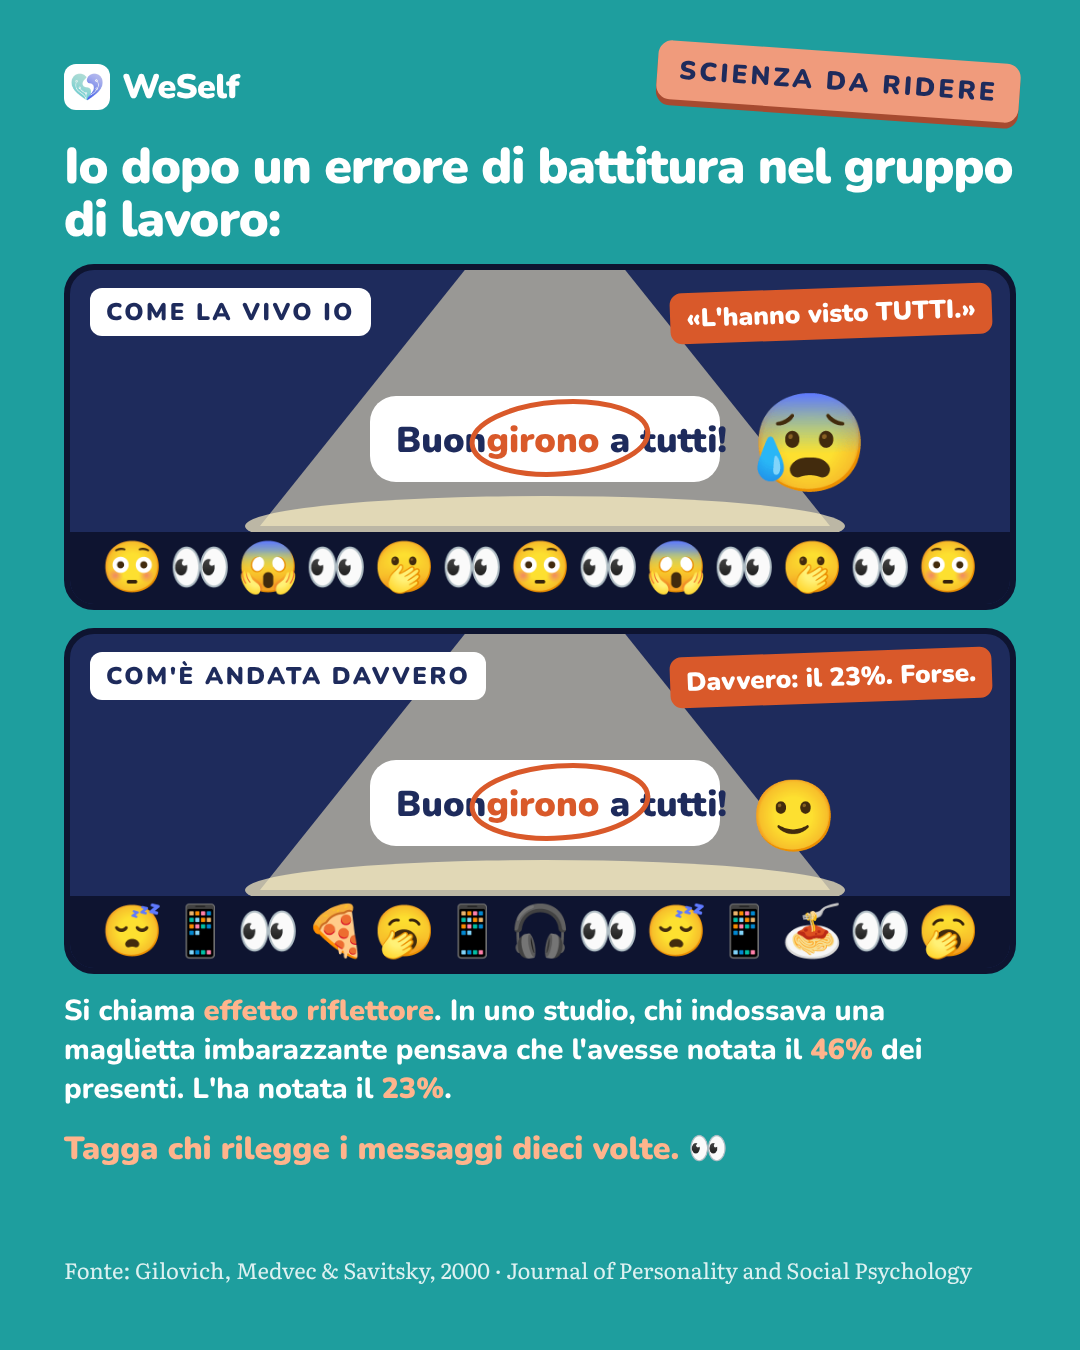
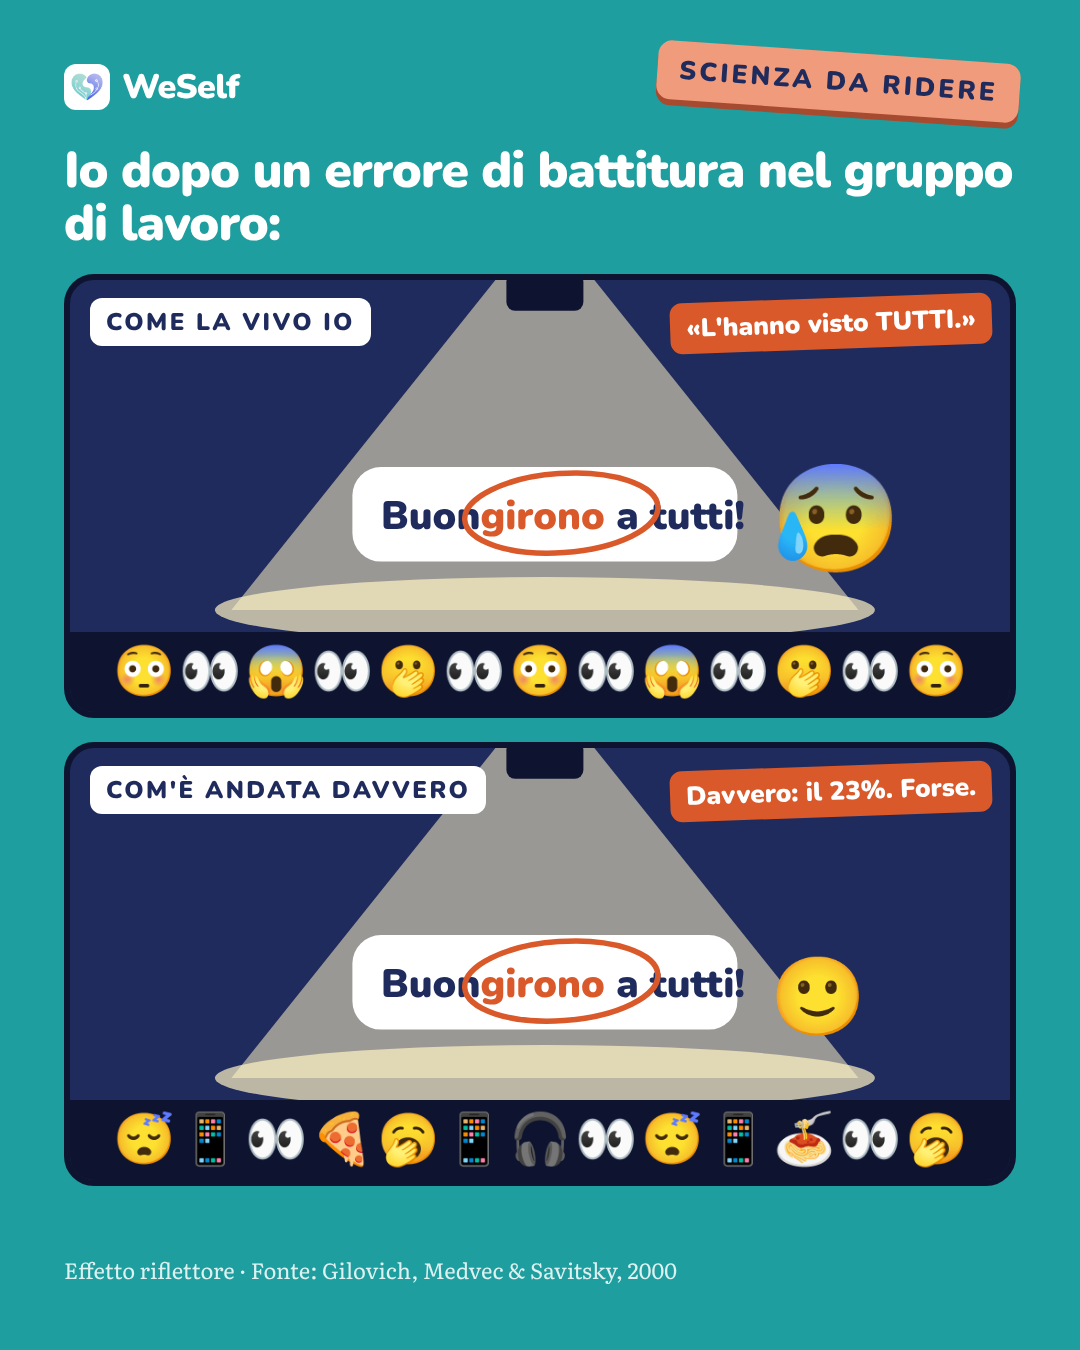
Meme errore-battitura: illustrations take the space, no explanation on the image; rule updated
Claude-Session: https://claude.ai/code/session_01KYQeP73Zvn8PeP6zhkL2Sc

diff --git a/meme/errore-battitura/slides.html b/meme/errore-battitura/slides.html
@@ -81,7 +81,7 @@ svg.shape{position:absolute;z-index:1}
 .l1{font-weight:900;font-size:50px;line-height:1.06;letter-spacing:-.02em}
 .pan{position:relative;background:#1E2B5C;border-radius:30px;overflow:hidden;border:6px solid #0E1430}
 .pan .lbl{position:absolute;left:20px;top:18px;background:#fff;color:#1E2B5C;font-weight:900;font-size:24px;letter-spacing:.1em;padding:8px 16px;border-radius:12px;z-index:2}
-.pan .aud{display:flex;justify-content:center;gap:6px;font-size:50px;line-height:1;background:#0E1430;padding:10px 10px 12px}
+.pan .aud{display:flex;justify-content:center;gap:4px;font-size:50px;line-height:1;background:#0E1430;padding:14px 10px 16px}
 .pan .pct{position:absolute;right:18px;top:18px;background:#D9592A;color:#fff;font-weight:900;font-size:26px;padding:8px 16px;border-radius:12px;transform:rotate(-2deg)}
 .sci{font-weight:700;font-size:29px;line-height:1.34}
 .sci b{color:#FFB48C}
@@ -90,12 +90,10 @@ svg.shape{position:absolute;z-index:1}
 </style>
 <section class="slide" id="s1"><span class="stamp">SCIENZA DA RIDERE</span>
   <div class="top"><div class="brand"><img src="weself-mark.png"><span><span class="we">We</span><span class="self">Self</span></span></div></div>
-  <div class="stack" style="margin-top:30px;gap:18px">
+  <div class="stack" style="margin-top:34px;gap:24px">
     <p class="l1">Io dopo un errore di battitura nel gruppo di lavoro:</p>
-    <div class="pan"><span class="lbl">COME LA VIVO IO</span><svg width="952" height="262" viewBox="0 30 952 290" preserveAspectRatio="xMidYMid slice" style="display:block"><polygon points="430,0 520,0 760,300 190,300" fill="#FFF3C4" fill-opacity="0.55"/><ellipse cx="475" cy="300" rx="300" ry="30" fill="#FFF3C4" fill-opacity="0.7"/><rect x="440" y="-6" width="70" height="34" rx="8" fill="#0E1430"/><g transform="translate(300 170)"><rect x="0" y="0" width="350" height="86" rx="26" fill="#fff"/><text x="26" y="56" font-family="Nunito" font-weight="900" font-size="36" fill="#1E2B5C">Buon<tspan fill="#D9592A">girono</tspan> a tutti!</text><ellipse cx="190" cy="44" rx="88" ry="36" fill="none" stroke="#D9592A" stroke-width="5" transform="rotate(-4 160 44)"/></g><text x="680" y="250" font-family="Noto Color Emoji" font-size="96">😰</text></svg><div class="aud"><span>😳</span><span>👀</span><span>😱</span><span>👀</span><span>🫢</span><span>👀</span><span>😳</span><span>👀</span><span>😱</span><span>👀</span><span>🫢</span><span>👀</span><span>😳</span></div><span class="pct">«L'hanno visto TUTTI.»</span></div>
-    <div class="pan"><span class="lbl">COM'È ANDATA DAVVERO</span><svg width="952" height="262" viewBox="0 30 952 290" preserveAspectRatio="xMidYMid slice" style="display:block"><polygon points="430,0 520,0 760,300 190,300" fill="#FFF3C4" fill-opacity="0.55"/><ellipse cx="475" cy="300" rx="300" ry="30" fill="#FFF3C4" fill-opacity="0.7"/><rect x="440" y="-6" width="70" height="34" rx="8" fill="#0E1430"/><g transform="translate(300 170)"><rect x="0" y="0" width="350" height="86" rx="26" fill="#fff"/><text x="26" y="56" font-family="Nunito" font-weight="900" font-size="36" fill="#1E2B5C">Buon<tspan fill="#D9592A">girono</tspan> a tutti!</text><ellipse cx="190" cy="44" rx="88" ry="36" fill="none" stroke="#D9592A" stroke-width="5" transform="rotate(-4 160 44)"/></g><text x="680" y="250" font-family="Noto Color Emoji" font-size="70">🙂</text></svg><div class="aud"><span>😴</span><span>📱</span><span>👀</span><span>🍕</span><span>🥱</span><span>📱</span><span>🎧</span><span>👀</span><span>😴</span><span>📱</span><span>🍝</span><span>👀</span><span>🥱</span></div><span class="pct">Davvero: il 23%. Forse.</span></div>
-    <p class="sci">Si chiama <b>effetto riflettore</b>. In uno studio, chi indossava una maglietta imbarazzante pensava che l'avesse notata il <b>46%</b> dei presenti. L'ha notata il <b>23%</b>.</p>
-    <p class="ask">Tagga chi rilegge i messaggi dieci volte. <span class="emo">👀</span></p>
+    <div class="pan"><span class="lbl">COME LA VIVO IO</span><svg width="952" height="352" viewBox="0 0 952 320" preserveAspectRatio="xMidYMid slice" style="display:block"><polygon points="430,0 520,0 760,300 190,300" fill="#FFF3C4" fill-opacity="0.55"/><ellipse cx="475" cy="300" rx="300" ry="30" fill="#FFF3C4" fill-opacity="0.7"/><rect x="440" y="-6" width="70" height="34" rx="8" fill="#0E1430"/><g transform="translate(300 170)"><rect x="0" y="0" width="350" height="86" rx="26" fill="#fff"/><text x="26" y="56" font-family="Nunito" font-weight="900" font-size="36" fill="#1E2B5C">Buon<tspan fill="#D9592A">girono</tspan> a tutti!</text><ellipse cx="190" cy="44" rx="88" ry="36" fill="none" stroke="#D9592A" stroke-width="5" transform="rotate(-4 160 44)"/></g><text x="680" y="250" font-family="Noto Color Emoji" font-size="96">😰</text></svg><div class="aud"><span>😳</span><span>👀</span><span>😱</span><span>👀</span><span>🫢</span><span>👀</span><span>😳</span><span>👀</span><span>😱</span><span>👀</span><span>🫢</span><span>👀</span><span>😳</span></div><span class="pct">«L'hanno visto TUTTI.»</span></div>
+    <div class="pan"><span class="lbl">COM'È ANDATA DAVVERO</span><svg width="952" height="352" viewBox="0 0 952 320" preserveAspectRatio="xMidYMid slice" style="display:block"><polygon points="430,0 520,0 760,300 190,300" fill="#FFF3C4" fill-opacity="0.55"/><ellipse cx="475" cy="300" rx="300" ry="30" fill="#FFF3C4" fill-opacity="0.7"/><rect x="440" y="-6" width="70" height="34" rx="8" fill="#0E1430"/><g transform="translate(300 170)"><rect x="0" y="0" width="350" height="86" rx="26" fill="#fff"/><text x="26" y="56" font-family="Nunito" font-weight="900" font-size="36" fill="#1E2B5C">Buon<tspan fill="#D9592A">girono</tspan> a tutti!</text><ellipse cx="190" cy="44" rx="88" ry="36" fill="none" stroke="#D9592A" stroke-width="5" transform="rotate(-4 160 44)"/></g><text x="680" y="250" font-family="Noto Color Emoji" font-size="70">🙂</text></svg><div class="aud"><span>😴</span><span>📱</span><span>👀</span><span>🍕</span><span>🥱</span><span>📱</span><span>🎧</span><span>👀</span><span>😴</span><span>📱</span><span>🍝</span><span>👀</span><span>🥱</span></div><span class="pct">Davvero: il 23%. Forse.</span></div>
   </div>
-  <p class="srcl" style="margin-top:auto">Fonte: Gilovich, Medvec &amp; Savitsky, 2000 · Journal of Personality and Social Psychology</p>
+  <p class="srcl" style="margin-top:auto">Effetto riflettore · Fonte: Gilovich, Medvec &amp; Savitsky, 2000</p>
 </section></body></html>

diff --git a/meme/errore-battitura/body.html b/meme/errore-battitura/body.html
@@ -6,7 +6,7 @@
 .l1{font-weight:900;font-size:50px;line-height:1.06;letter-spacing:-.02em}
 .pan{position:relative;background:#1E2B5C;border-radius:30px;overflow:hidden;border:6px solid #0E1430}
 .pan .lbl{position:absolute;left:20px;top:18px;background:#fff;color:#1E2B5C;font-weight:900;font-size:24px;letter-spacing:.1em;padding:8px 16px;border-radius:12px;z-index:2}
-.pan .aud{display:flex;justify-content:center;gap:6px;font-size:50px;line-height:1;background:#0E1430;padding:10px 10px 12px}
+.pan .aud{display:flex;justify-content:center;gap:4px;font-size:50px;line-height:1;background:#0E1430;padding:14px 10px 16px}
 .pan .pct{position:absolute;right:18px;top:18px;background:#D9592A;color:#fff;font-weight:900;font-size:26px;padding:8px 16px;border-radius:12px;transform:rotate(-2deg)}
 .sci{font-weight:700;font-size:29px;line-height:1.34}
 .sci b{color:#FFB48C}
@@ -15,12 +15,10 @@
 </style>
 <section class="slide" id="s1"><span class="stamp">SCIENZA DA RIDERE</span>
   <div class="top"><div class="brand"><img src="weself-mark.png"><span><span class="we">We</span><span class="self">Self</span></span></div></div>
-  <div class="stack" style="margin-top:30px;gap:18px">
+  <div class="stack" style="margin-top:34px;gap:24px">
     <p class="l1">Io dopo un errore di battitura nel gruppo di lavoro:</p>
-    <div class="pan"><span class="lbl">COME LA VIVO IO</span><svg width="952" height="262" viewBox="0 30 952 290" preserveAspectRatio="xMidYMid slice" style="display:block"><polygon points="430,0 520,0 760,300 190,300" fill="#FFF3C4" fill-opacity="0.55"/><ellipse cx="475" cy="300" rx="300" ry="30" fill="#FFF3C4" fill-opacity="0.7"/><rect x="440" y="-6" width="70" height="34" rx="8" fill="#0E1430"/><g transform="translate(300 170)"><rect x="0" y="0" width="350" height="86" rx="26" fill="#fff"/><text x="26" y="56" font-family="Nunito" font-weight="900" font-size="36" fill="#1E2B5C">Buon<tspan fill="#D9592A">girono</tspan> a tutti!</text><ellipse cx="190" cy="44" rx="88" ry="36" fill="none" stroke="#D9592A" stroke-width="5" transform="rotate(-4 160 44)"/></g><text x="680" y="250" font-family="Noto Color Emoji" font-size="96">😰</text></svg><div class="aud"><span>😳</span><span>👀</span><span>😱</span><span>👀</span><span>🫢</span><span>👀</span><span>😳</span><span>👀</span><span>😱</span><span>👀</span><span>🫢</span><span>👀</span><span>😳</span></div><span class="pct">«L'hanno visto TUTTI.»</span></div>
-    <div class="pan"><span class="lbl">COM'È ANDATA DAVVERO</span><svg width="952" height="262" viewBox="0 30 952 290" preserveAspectRatio="xMidYMid slice" style="display:block"><polygon points="430,0 520,0 760,300 190,300" fill="#FFF3C4" fill-opacity="0.55"/><ellipse cx="475" cy="300" rx="300" ry="30" fill="#FFF3C4" fill-opacity="0.7"/><rect x="440" y="-6" width="70" height="34" rx="8" fill="#0E1430"/><g transform="translate(300 170)"><rect x="0" y="0" width="350" height="86" rx="26" fill="#fff"/><text x="26" y="56" font-family="Nunito" font-weight="900" font-size="36" fill="#1E2B5C">Buon<tspan fill="#D9592A">girono</tspan> a tutti!</text><ellipse cx="190" cy="44" rx="88" ry="36" fill="none" stroke="#D9592A" stroke-width="5" transform="rotate(-4 160 44)"/></g><text x="680" y="250" font-family="Noto Color Emoji" font-size="70">🙂</text></svg><div class="aud"><span>😴</span><span>📱</span><span>👀</span><span>🍕</span><span>🥱</span><span>📱</span><span>🎧</span><span>👀</span><span>😴</span><span>📱</span><span>🍝</span><span>👀</span><span>🥱</span></div><span class="pct">Davvero: il 23%. Forse.</span></div>
-    <p class="sci">Si chiama <b>effetto riflettore</b>. In uno studio, chi indossava una maglietta imbarazzante pensava che l'avesse notata il <b>46%</b> dei presenti. L'ha notata il <b>23%</b>.</p>
-    <p class="ask">Tagga chi rilegge i messaggi dieci volte. <span class="emo">👀</span></p>
+    <div class="pan"><span class="lbl">COME LA VIVO IO</span><svg width="952" height="352" viewBox="0 0 952 320" preserveAspectRatio="xMidYMid slice" style="display:block"><polygon points="430,0 520,0 760,300 190,300" fill="#FFF3C4" fill-opacity="0.55"/><ellipse cx="475" cy="300" rx="300" ry="30" fill="#FFF3C4" fill-opacity="0.7"/><rect x="440" y="-6" width="70" height="34" rx="8" fill="#0E1430"/><g transform="translate(300 170)"><rect x="0" y="0" width="350" height="86" rx="26" fill="#fff"/><text x="26" y="56" font-family="Nunito" font-weight="900" font-size="36" fill="#1E2B5C">Buon<tspan fill="#D9592A">girono</tspan> a tutti!</text><ellipse cx="190" cy="44" rx="88" ry="36" fill="none" stroke="#D9592A" stroke-width="5" transform="rotate(-4 160 44)"/></g><text x="680" y="250" font-family="Noto Color Emoji" font-size="96">😰</text></svg><div class="aud"><span>😳</span><span>👀</span><span>😱</span><span>👀</span><span>🫢</span><span>👀</span><span>😳</span><span>👀</span><span>😱</span><span>👀</span><span>🫢</span><span>👀</span><span>😳</span></div><span class="pct">«L'hanno visto TUTTI.»</span></div>
+    <div class="pan"><span class="lbl">COM'È ANDATA DAVVERO</span><svg width="952" height="352" viewBox="0 0 952 320" preserveAspectRatio="xMidYMid slice" style="display:block"><polygon points="430,0 520,0 760,300 190,300" fill="#FFF3C4" fill-opacity="0.55"/><ellipse cx="475" cy="300" rx="300" ry="30" fill="#FFF3C4" fill-opacity="0.7"/><rect x="440" y="-6" width="70" height="34" rx="8" fill="#0E1430"/><g transform="translate(300 170)"><rect x="0" y="0" width="350" height="86" rx="26" fill="#fff"/><text x="26" y="56" font-family="Nunito" font-weight="900" font-size="36" fill="#1E2B5C">Buon<tspan fill="#D9592A">girono</tspan> a tutti!</text><ellipse cx="190" cy="44" rx="88" ry="36" fill="none" stroke="#D9592A" stroke-width="5" transform="rotate(-4 160 44)"/></g><text x="680" y="250" font-family="Noto Color Emoji" font-size="70">🙂</text></svg><div class="aud"><span>😴</span><span>📱</span><span>👀</span><span>🍕</span><span>🥱</span><span>📱</span><span>🎧</span><span>👀</span><span>😴</span><span>📱</span><span>🍝</span><span>👀</span><span>🥱</span></div><span class="pct">Davvero: il 23%. Forse.</span></div>
   </div>
-  <p class="srcl" style="margin-top:auto">Fonte: Gilovich, Medvec &amp; Savitsky, 2000 · Journal of Personality and Social Psychology</p>
+  <p class="srcl" style="margin-top:auto">Effetto riflettore · Fonte: Gilovich, Medvec &amp; Savitsky, 2000</p>
 </section></body></html>

diff --git a/CLAUDE.md b/CLAUDE.md
@@ -66,7 +66,8 @@ Agreed with the founder (24 Nov 2026). A light, shareable post built on one veri
 - **Shareable first:** the joke must be funny for anyone, not only for WeSelf followers: an everyday situation people recognise in themselves or a friend, so they share it with their own audience (tag, send, repost). No inside jokes about WeSelf (followers, our posts, our app): WeSelf is the signature (logo, sticker, science line), not the subject.
 - **Voice:** first person «io» is allowed for small, harmless self-irony («io quando…», «io a marzo / io a novembre»). We laugh at the situation, never at people or groups.
 - **Look:** teal background with the «SCIENZA DA RIDERE» sticker (column look being finalised). Our own meme structures (chats, calendars, expectation vs reality, «nessuno: / io:», no / sì) drawn in brand style with emoji and icons, or a classic meme image only when it is a licensed stock photo (e.g. from Canva) chosen by the founder; real photo, not AI; check the Pro licence. No screenshots from films, TV, music videos or other creators.
-- **Science:** the image carries one verified fact from the study and a short source line («Fonte: Autore, anno · rivista»). Because there is only one image, «Mito o realtà?», «I limiti» and «Un'onestà necessaria» go in the caption; full citation + DOI in the first comment, as usual.
+- **Let the drawing tell the joke:** the illustration takes most of the space and must be funny on its own; never explain the joke on the image. Text on the image is only the setup line, short labels inside the drawing and the source line.
+- **Science:** the verified fact lives inside the drawing (a label, a count, e.g. 3 faces out of 13 = 23%) plus a short source line («Fonte: Autore, anno»); the explanation of the study goes in the caption. Because there is only one image, «Mito o realtà?», «I limiti» and «Un'onestà necessaria» go in the caption; full citation + DOI in the first comment, as usual.
 - **Never** on loneliness, anxiety, grief, addiction or other sensitive topics; never on 25 November or other awareness days; no political or local-news jokes.
 - **Frequency:** about one a week.
 
